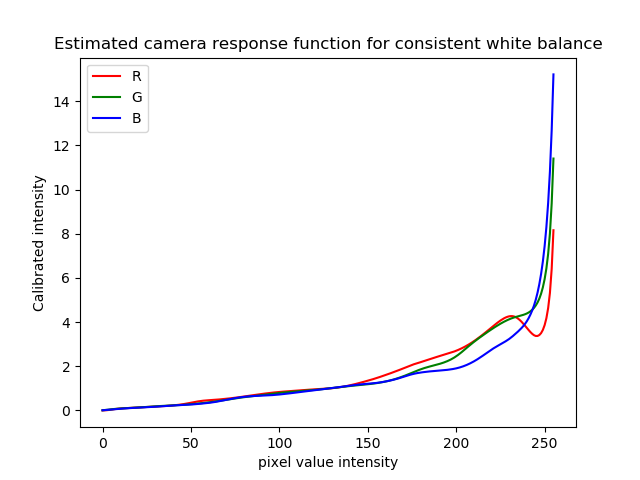
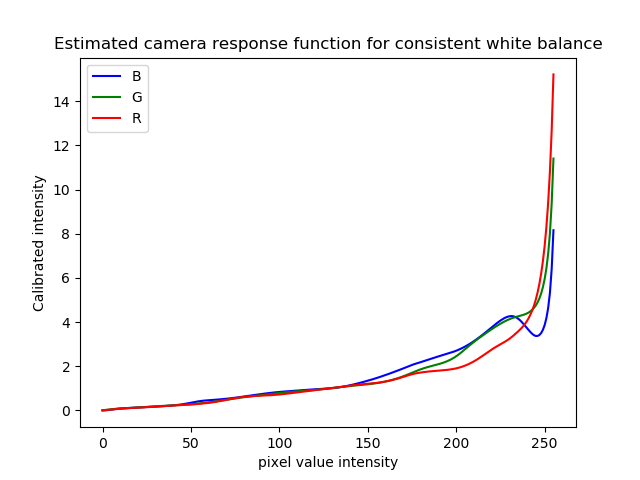
Test case

diff --git a/algorithm.py b/algorithm.py
@@ -31,27 +31,27 @@ def graph_camera_response_function(images, times):
     return crf_debevec
 
 if __name__ == "__main__":
-    time = np.array([1.0/8000.0, 1.0/1020.0, 1.0/100.0, 1.0/20.0], dtype=np.float32)
-    paths = ["./Test Images/2/Inconsistent/1.jpg",
-             "./Test Images/2/Inconsistent/2.jpg",
-             "./Test Images/2/Inconsistent/3.jpg",
-             "./Test Images/2/Inconsistent/4.jpg"]
+    time = np.array([1.0/142.0, 1.0/91.0, 1.0/56.0, 1.0/30.0], dtype=np.float32)
+    paths = ["./Test Images/5/Inconsistent/1.jpeg",
+             "./Test Images/5/Inconsistent/2.jpeg",
+             "./Test Images/5/Inconsistent/3.jpeg",
+             "./Test Images/5/Inconsistent/4.jpeg"]
     images = readImagesAndTimes(paths)
     merge_mertens = cv.createMergeMertens()
     fusion = merge_mertens.process(images)
     fusion_8bit = np.clip(fusion * 255, 0, 255).astype('uint8')
-    cv.imwrite("./Test Images/2/Inconsistent/fusion_result.png", fusion_8bit)
+    cv.imwrite("./Test Images/5/Inconsistent/fusion_result.png", fusion_8bit)
     hdr_merge = tone_merge(images, time)
     mapping = tone_map(hdr_merge)
     save_result(mapping)
     x_value = [x for x in range(0, 256)]
     vectors = graph_camera_response_function(images, time)
-    plt.plot(x_value, vectors[:, :, 0], label='R', color='R')
+    plt.plot(x_value, vectors[:, :, 0], label='B', color='b')
     plt.plot(x_value, vectors[:, :, 1], label='G', color='g')
-    plt.plot(x_value, vectors[:, :, 2], label='B', color='b')
+    plt.plot(x_value, vectors[:, :, 2], label='R', color='r')
     plt.xlabel("pixel value intensity")
     plt.ylabel("Calibrated intensity")
     plt.legend()
-    plt.title("Estimated camera response function for inconsistent white balance")
-    plt.savefig('./Test Images/2/Inconsistent/CRF.png')
+    plt.title("Estimated camera response function for consistent white balance")
+    plt.savefig('./Test Images/5/Inconsistent/CRF.png')
     plt.show()
